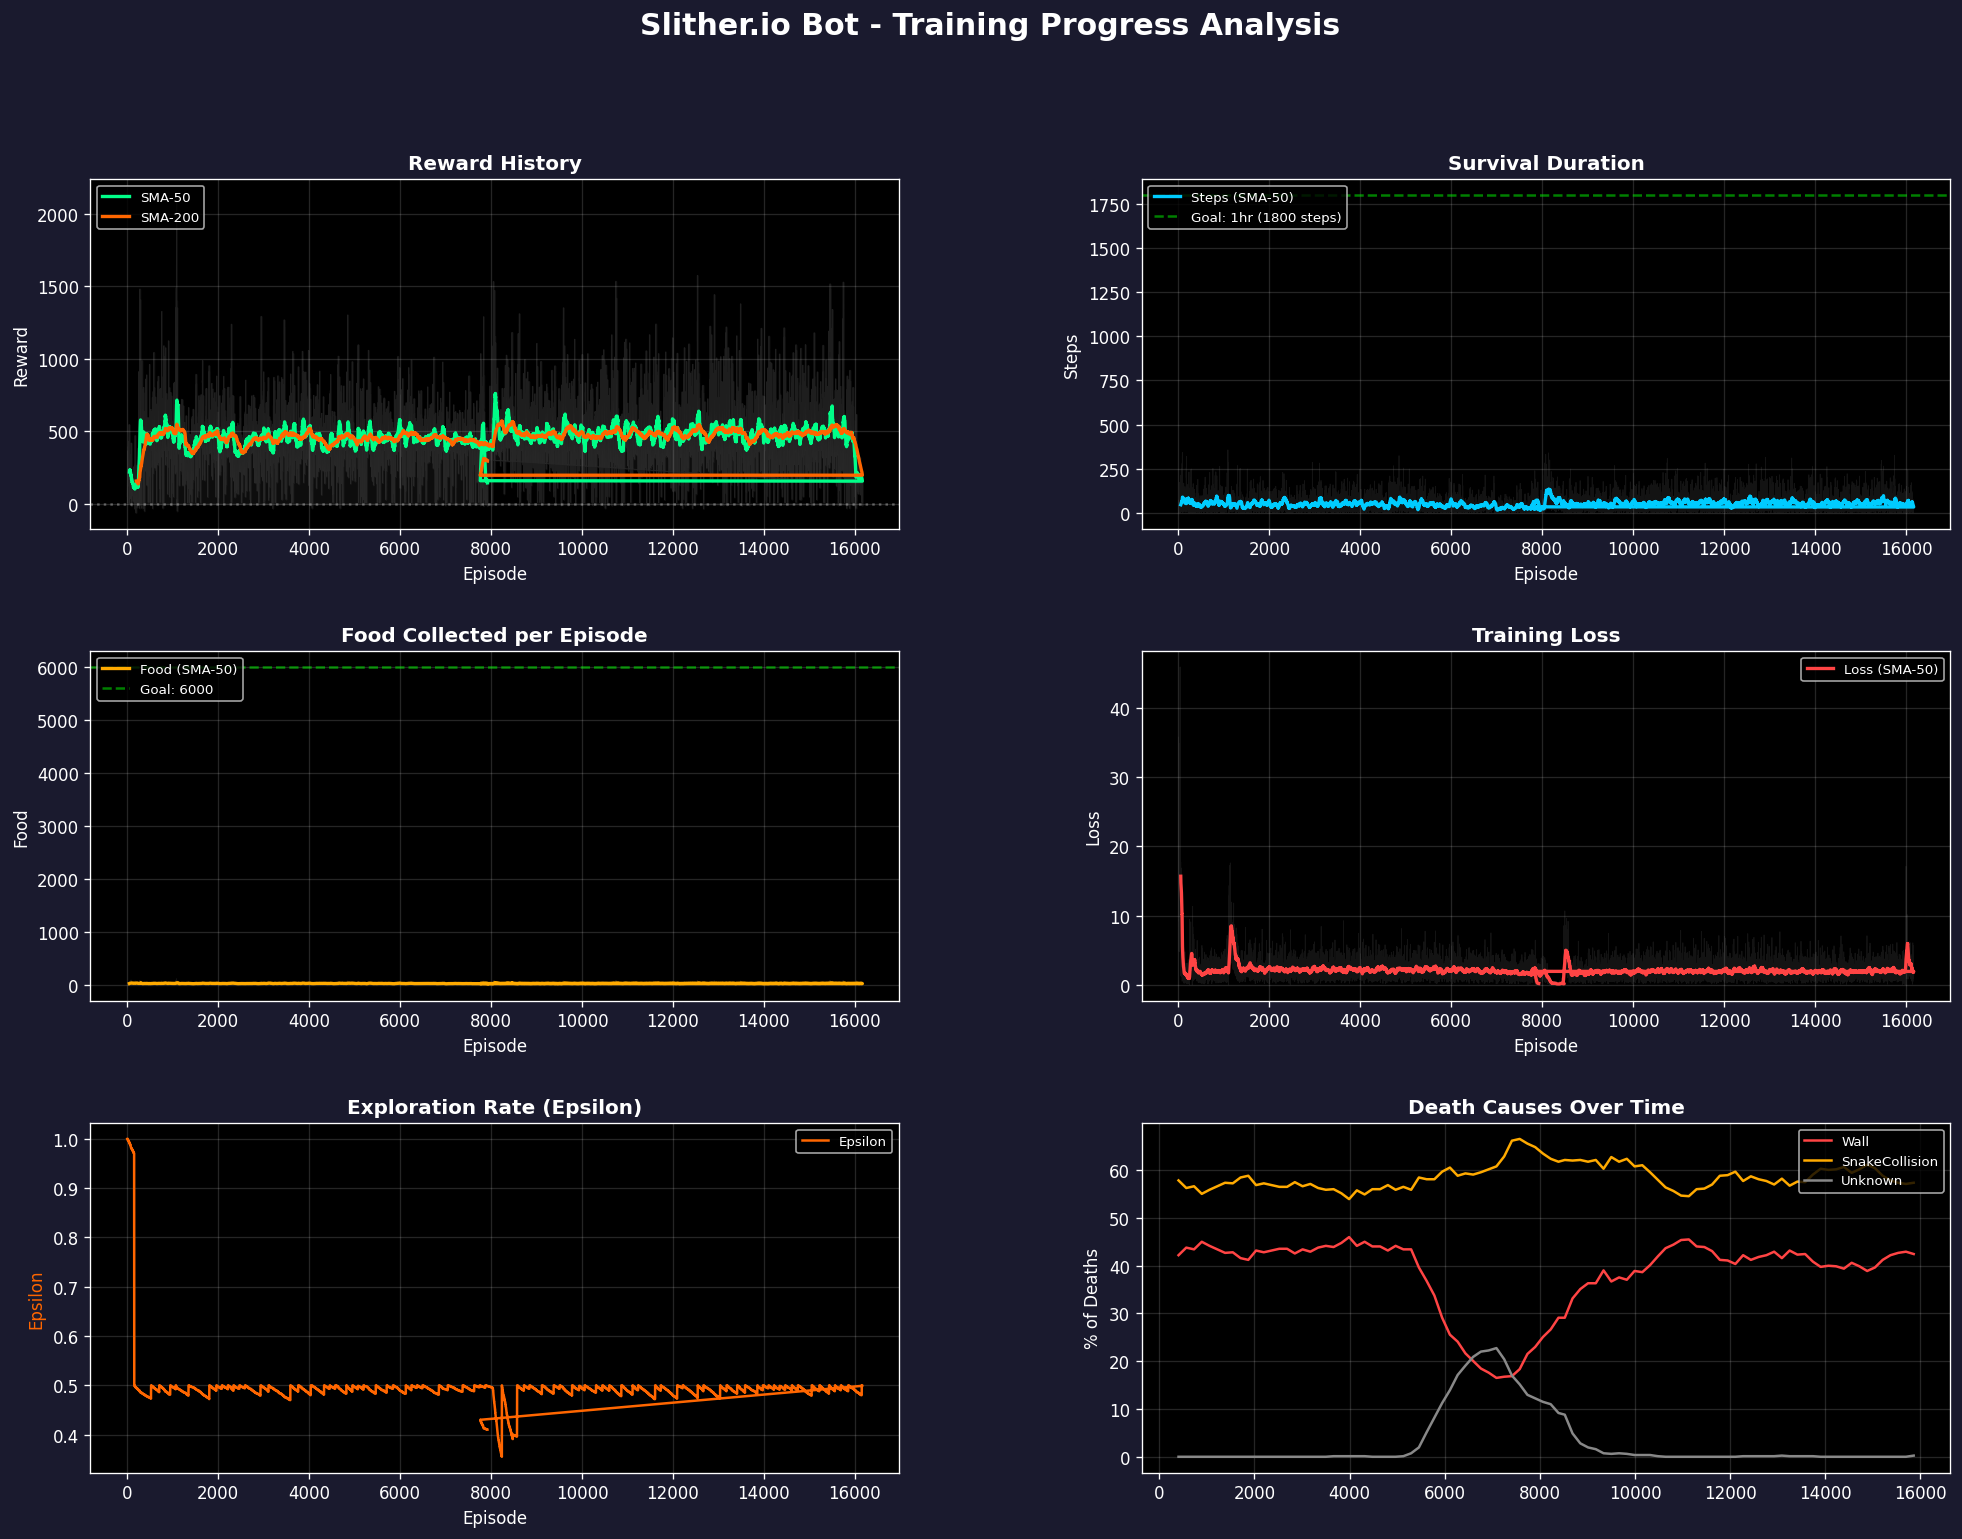
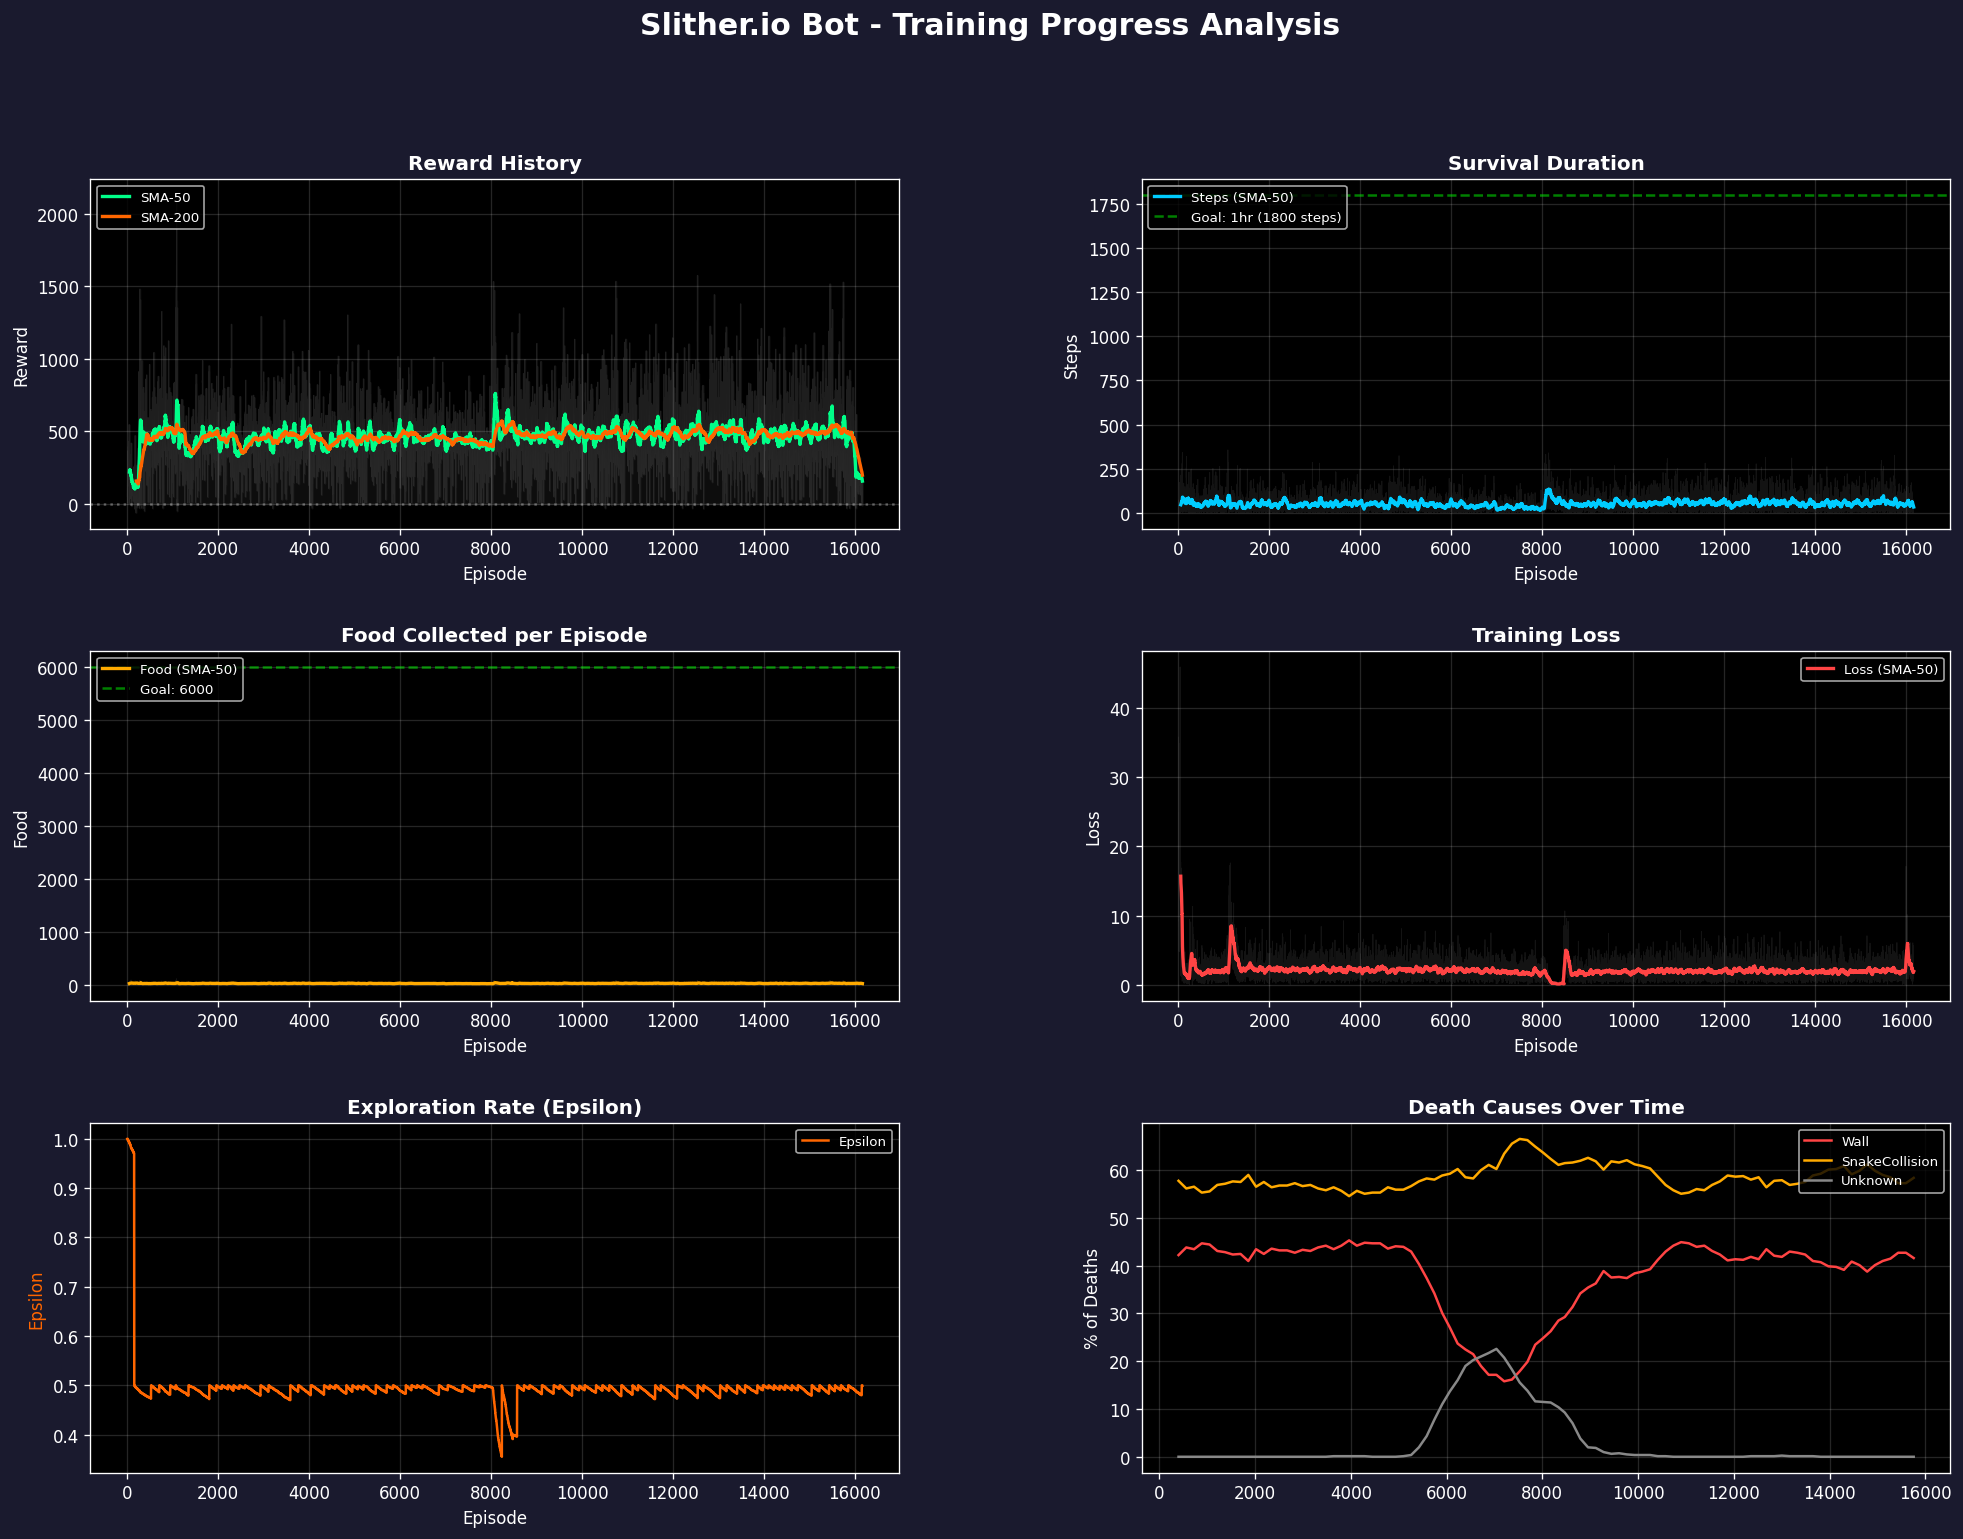
progress

diff --git a/gen2/progress_report.md b/gen2/progress_report.md
@@ -1,26 +1,26 @@
 # Slither.io Bot - Training Progress Report
 
-**Generated:** 2026-02-10 12:07:19  
-**Total Episodes:** 16362  
-**Training Sessions:** 9
+**Generated:** 2026-02-10 17:55:40  
+**Total Episodes:** 16202  
+**Training Sessions:** 7
 
 ## Verdict: NOT LEARNING (Confidence: 40%)
 
 **Goal Feasibility:** VERY UNLIKELY (<5% chance)
 
 ### Warnings
-- Rewards flat: change = 32.3 between halves
-- Epsilon moderate (0.410) - still significant random exploration
-- Multiple training restarts detected (9 sessions) - fragmented learning
+- Rewards flat: change = 36.8 between halves
+- Epsilon moderate (0.499) - still significant random exploration
+- Multiple training restarts detected (7 sessions) - fragmented learning
 
 ## Key Statistics
 
 | Metric | Mean | Std | Min | Max | P50 | P95 |
 |--------|------|-----|-----|-----|-----|-----|
-| Reward | 460.69 | 172.18 | -61.43 | 2129.92 | 431.50 | 766.39 |
-| Steps | 52.39 | 44.58 | 1.00 | 357.00 | 40.00 | 139.00 |
-| Food | 26.28 | 9.56 | 0.00 | 114.00 | 24.00 | 44.00 |
-| Loss | 2.08 | 1.62 | 0.00 | 45.93 | 1.80 | 4.47 |
+| Reward | 461.97 | 170.74 | -61.43 | 2129.92 | 432.63 | 765.81 |
+| Steps | 52.29 | 44.55 | 1.00 | 357.00 | 40.00 | 139.00 |
+| Food | 26.26 | 9.54 | 0.00 | 114.00 | 24.00 | 44.00 |
+| Loss | 2.10 | 1.62 | 0.00 | 45.93 | 1.80 | 4.48 |
 
 ## Goal Progress
 
@@ -39,9 +39,7 @@
 | 4 | Aggressive (Hunter) | 1070-1094 | 990.6 | 158 |
 | 5 | Aggressive (Hunter) | 1095-8480 | 451.3 | 48 |
 | 6 | Aggressive (Hunter) | 8451-15975 | 485.2 | 55 |
-| 7 | Aggressive (Hunter) | 15976-16165 | 184.4 | 51 |
-| 8 | Explorer (Anti-Float) | 7762-7834 | 543.9 | 66 |
-| 9 | Standard (Curriculum) | 7835-7921 | 152.4 | 60 |
+| 7 | Explorer (Anti-Float) | 15976-16165 | 184.4 | 51 |
 
 ## Recommendations
 
@@ -50,7 +48,7 @@ Significant issues detected. Major changes needed:
   2. Simplify reward structure
   3. Ensure episodes can last long enough to learn from
 
-1. Epsilon is 0.410 after 16362 episodes. Consider faster decay (eps_decay=50000) or lower eps_start if resuming.
+1. Epsilon is 0.499 after 16202 episodes. Consider faster decay (eps_decay=50000) or lower eps_start if resuming.
 
 2. Average episode too short. Consider:
      - Reducing death penalties to avoid discouraging exploration
